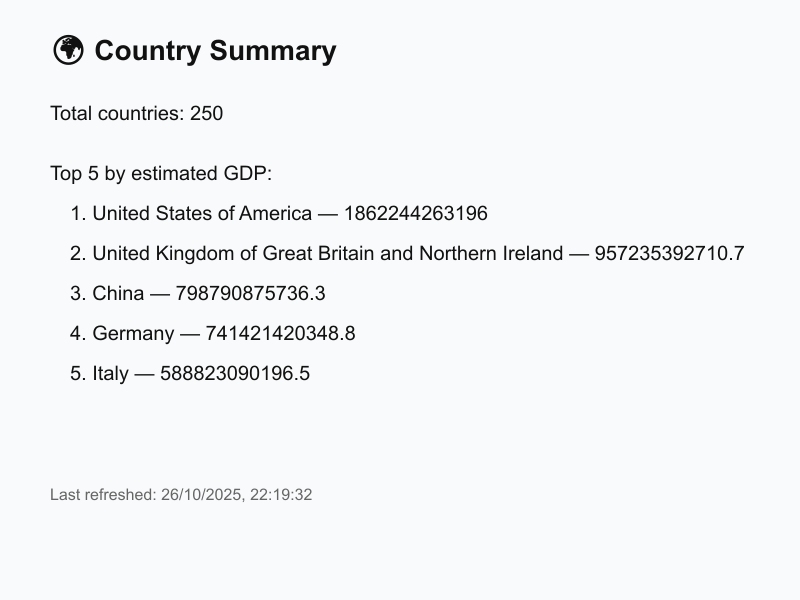
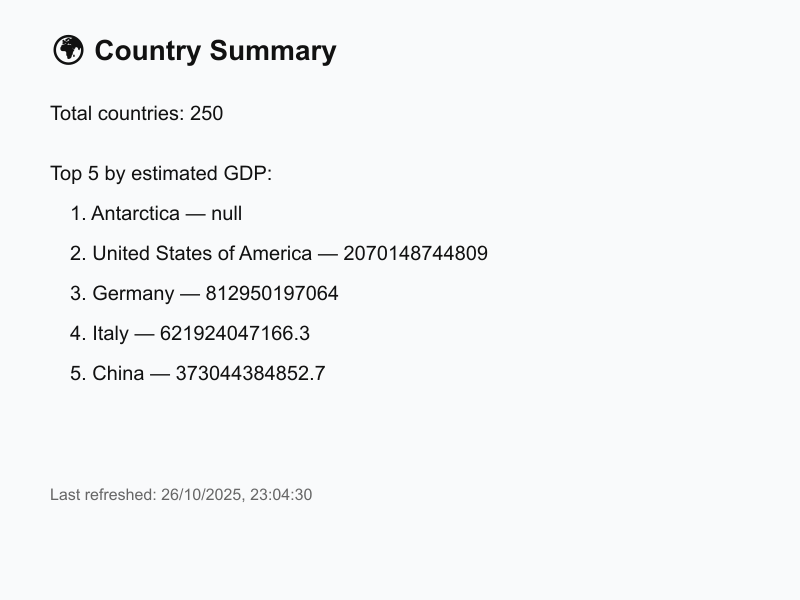
final fixes

diff --git a/src/index.ts b/src/index.ts
@@ -64,7 +64,7 @@ app.get("/countries/:name", async (req: Request, res: Response) => {
   const queryString = `SELECT * FROM countries where name = $1`
   const dbData = await query(queryString, [capitalizedName]) || []
   if (dbData.length === 0) return res.status(404).json({ "error": "Country not found" })
-  return res.json(dbData)
+  return res.json(dbData[0])
 })
 
 app.delete("/countries/:name", async (req: Request, res: Response) => {
@@ -93,7 +93,7 @@ app.get("/status", async (req: Request, res: Response) => {
   console.log(latestTime)
   return res.json({
     total_countries: length,
-    last_refeshed_at: latestTime
+    last_refreshed_at: latestTime
   })
 })
 
@@ -103,10 +103,14 @@ async function formatCountries(data: ICountry[]) {
     const { data: exchangeRates } = await axios.get("https://open.er-api.com/v6/latest/USD")
     const { rates } = exchangeRates
     data.forEach(country => {
-      const currency_code = country?.currencies?.[0]?.code
+      let currency_code = country?.currencies?.[0]?.code
       let exchange_rate = rates[currency_code]
       if (exchange_rate) exchange_rate = exchange_rate.toFixed(2)
-      const estimated_gdp = exchange_rate ? (country.population * (Math.floor(Math.random() * 10001) + 1000) / exchange_rate).toFixed(1) : 0
+      let estimated_gdp: any = exchange_rate ? (country.population * (Math.floor(Math.random() * 10001) + 1000) / exchange_rate).toFixed(1) : 0
+      if (!country.currencies) {
+        estimated_gdp = null
+        exchange_rate = null
+      }
       const { name, region, capital, population, flag } = country
       const formattedCountry = { 
         name, 
@@ -183,7 +187,7 @@ async function generateSummaryImage() {
 }
 
 function generateQueryStringFromReqQuery(query: any): string {
-  const queryFields = ["name", "capital", "region", "currency_code", "flag_url", "sort"]
+  const queryFields = ["name", "capital", "region", "currency_code", "flag_url", "sort", "code"]
   let queryString = "SELECT * FROM countries"
   if (query) {
     Object.entries(query).forEach(([key, value]: any) => {
@@ -193,6 +197,7 @@ function generateQueryStringFromReqQuery(query: any): string {
           console.log(split[1])
           if (["asc", "desc"].includes(split[1]) && ["gdp", "population", "rate"].includes(split[0])) queryString += ` ORDER BY ${split[0]} ${split[1]}`
         } else {
+          if (key === "currency_code") key ==="currency"
           if (queryString === "SELECT * FROM countries") {
             queryString = `SELECT * FROM countries WHERE ${key} = '${value}'`
           } else {
